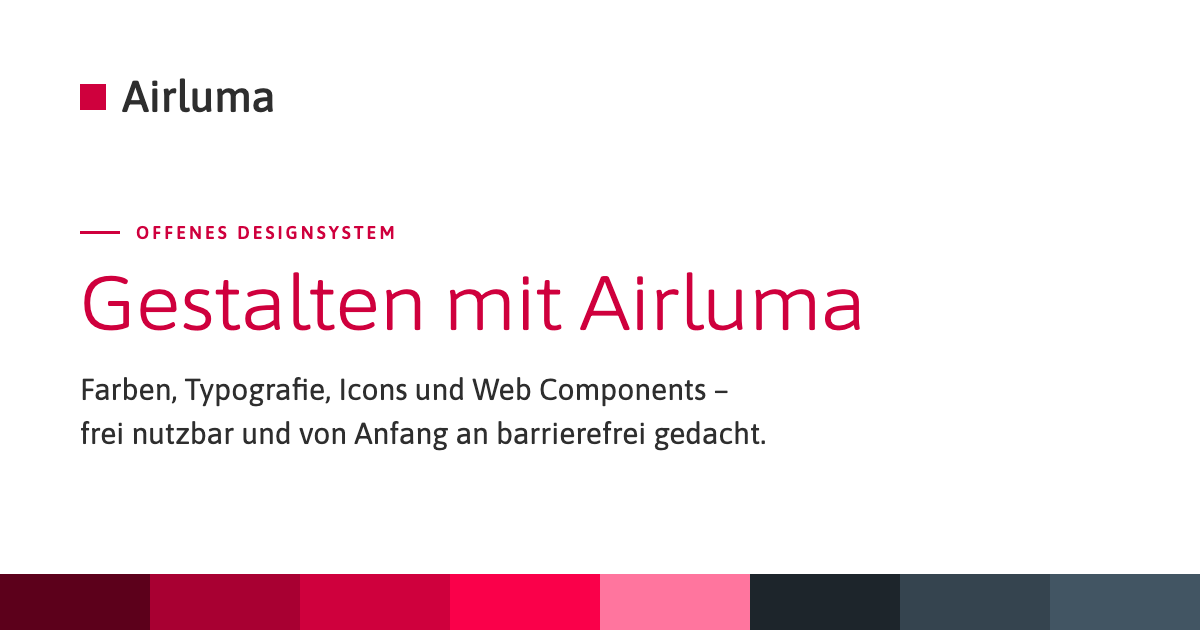
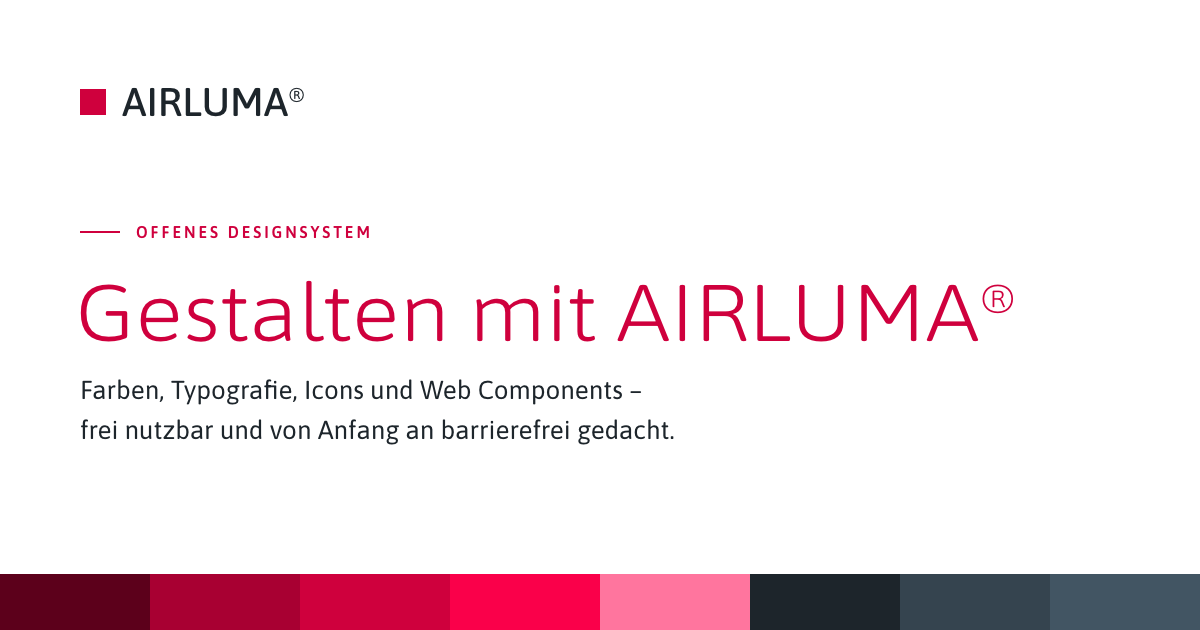
Markenzeichen ® hinter AIRLUMA, Vorschaubild mit AIRLUMA®

diff --git a/website/index.html b/website/index.html
@@ -9,7 +9,7 @@ seitenstil: startseite.css
 			<div class="startseite-text">
 				<div class="startseite-titel">
 					<p class="startseite-dachzeile"><span class="startseite-dachzeile-strich" aria-hidden="true"></span>Designsystem by IBYKUS</p>
-					<h1>Willkommen bei AIRLUMA</h1>
+					<h1>Willkommen bei AIRLUMA<span class="marke-zeichen">®</span></h1>
 				</div>
 				<p class="startseite-einleitung">AIRLUMA ist ein offenes Designsystem für digitale Oberflächen: Farben, Typografie, Abstände und Komponenten – frei nutzbar und von Anfang an barrierefrei gedacht.</p>
 				<p>AIRLUMA ist aus Ides hervorgegangen, dem Designsystem der IBYKUS AG. Übernommen wurde alles, was gestalterische Grundlage ist. Logo, Markenzeichen und andere Inhalte der Firmenidentität bleiben außen vor – so kannst du AIRLUMA in deinen eigenen Projekten einsetzen.</p>

diff --git a/website/in-arbeit.html b/website/in-arbeit.html
@@ -6,6 +6,6 @@ suche: false
 ---
 		<div class="platzhalter">
 			<h1>Diese Seite entsteht gerade</h1>
-			<p>AIRLUMA wird Schritt für Schritt aufgebaut. Der Inhalt dieser Seite folgt bald.</p>
+			<p>AIRLUMA<span class="marke-zeichen">®</span> wird Schritt für Schritt aufgebaut. Der Inhalt dieser Seite folgt bald.</p>
 			<p><a href="index.html">Zurück zur Startseite</a></p>
 		</div>
